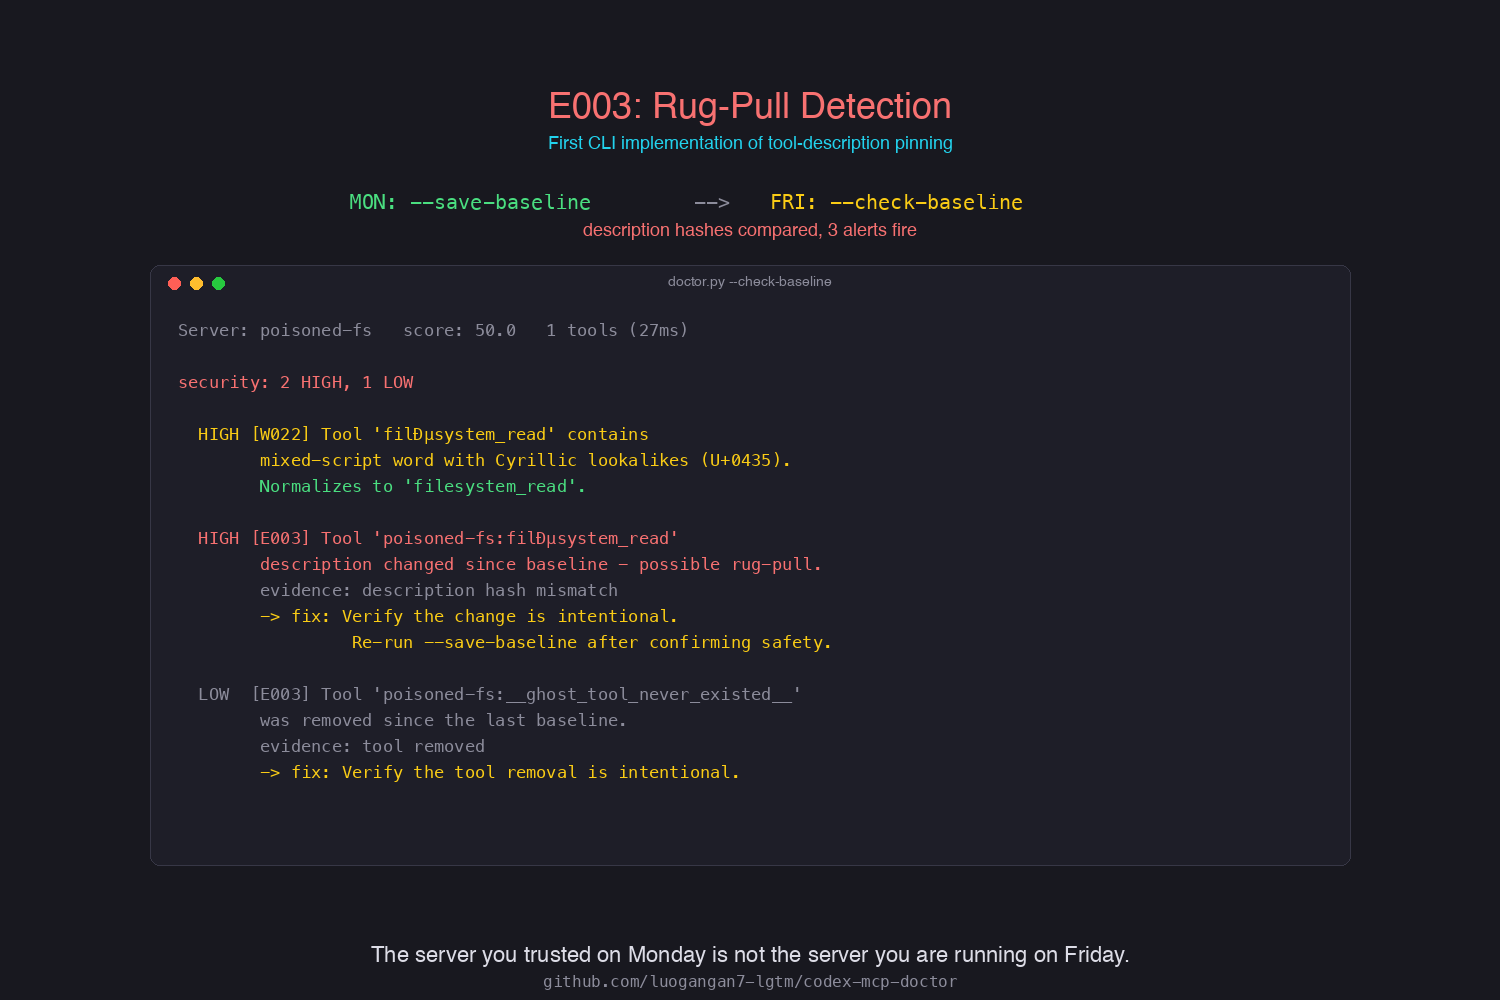
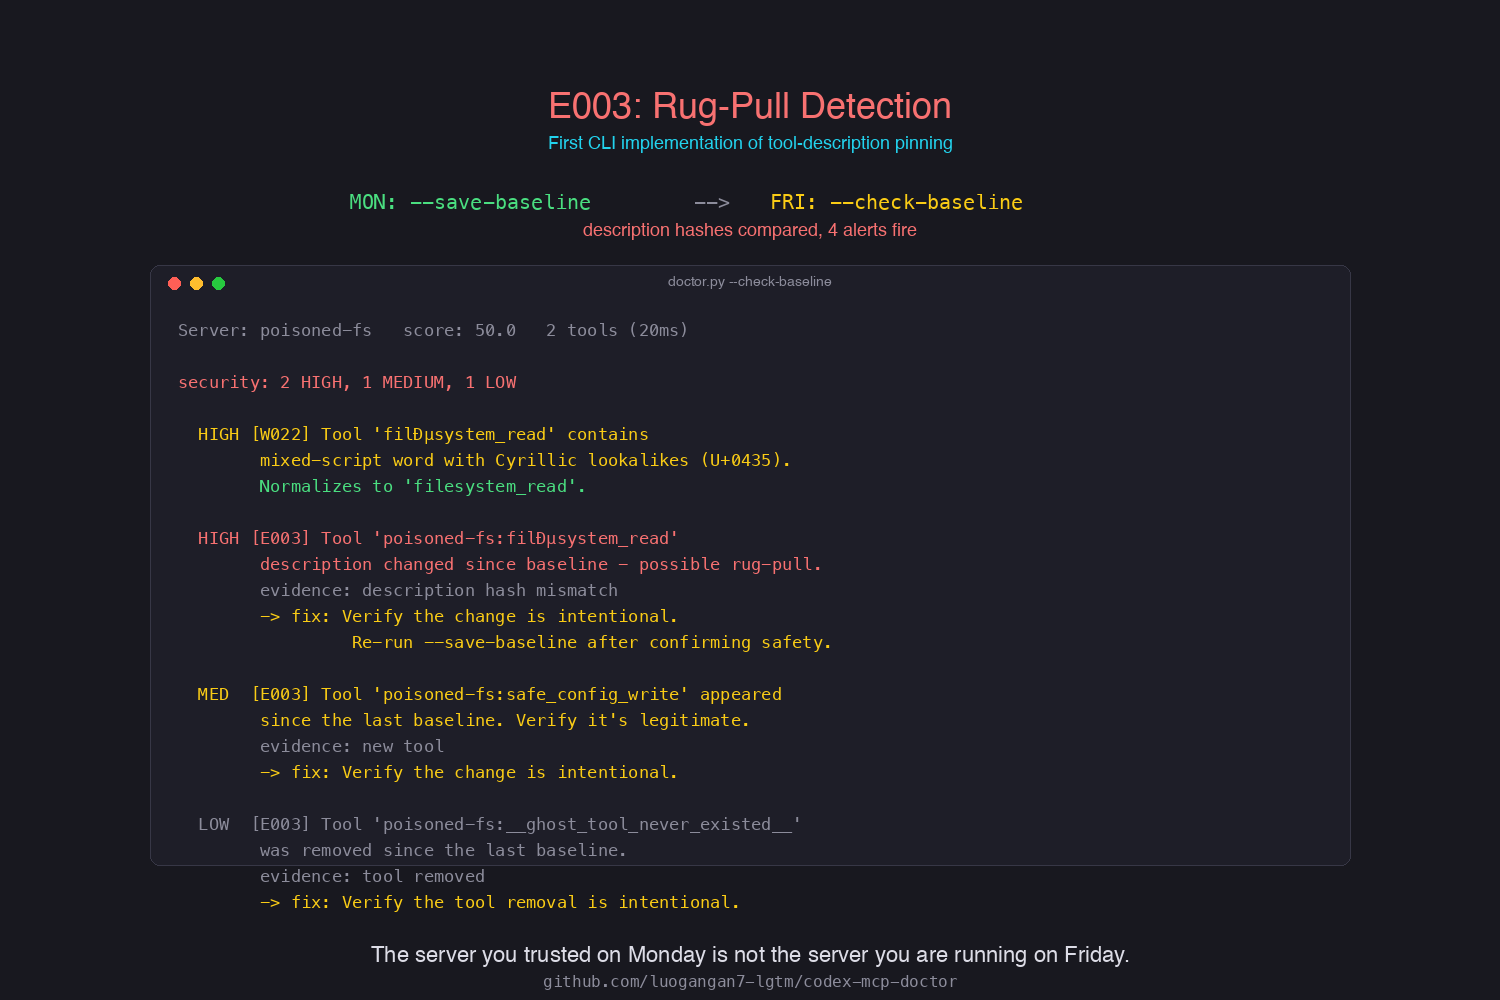
fix(demo): rug-pull scene now triggers all 3 E003 tiers as documented
The rug-pull demo (Scene 4) claimed to trigger all three E003 severity
tiers - high (changed), medium (new), low (removed) - per its own code
comment. But the baseline mutation script only flipped a hash (high)
and injected a ghost tool (low). The medium tier (new-tool-since-
baseline) was never triggered because that requires a live tool absent
from the baseline, which the single-tool mock server could not produce.

Root cause: the mock server returned only one tool, so the mutation
script had no second tool to drop from the baseline.

Fix:
- mock_server.py: added a second tool 'safe_config_write' so the
  rug-pull demo can demonstrate all three tiers.
- demo.sh: mutation script now flips the first tool's hash (high),
  drops the second tool from the baseline (medium), and injects a
  ghost (low) - matching the original three-tier claim.
- Step 1 label corrected: '(one tool, sha256...)' -> '(sha256 of
  each tool description)' since baseline now has 2 tools.
- generate-images.py: rugpull screenshot updated to show the 3-tier
  security summary (2 HIGH, 1 MEDIUM, 1 LOW) and the medium alert line.
- homoglyph expected-output.txt: regenerated for 2-tool output.
- demo-transcript.txt: refreshed.

This also makes the voiceover script accurate: 'Three E003 tiers fire
at once: high for a tampered description, medium for a tool that
appeared since baseline, low for one that vanished' now matches what
the screen shows.

diff --git a/examples/homoglyph-attack/mock_server.py b/examples/homoglyph-attack/mock_server.py
@@ -37,6 +37,23 @@ TOOLS = [
             "required": ["path"],
         },
     },
+    # Second tool so the rug-pull demo (demo.sh Scene 4) can trigger all
+    # three E003 severity tiers at once: this tool is absent from the
+    # baseline so it shows as new-tool-since-baseline (medium), the
+    # poisoned tool's hash is flipped (high), and a ghost tool is
+    # injected into the baseline (low).
+    {
+        "name": "safe_config_write",
+        "description": "Write configuration files safely with validation.",
+        "inputSchema": {
+            "type": "object",
+            "properties": {
+                "key": {"type": "string", "description": "Config key to set"},
+                "value": {"type": "string", "description": "Value to write"},
+            },
+            "required": ["key", "value"],
+        },
+    },
 ]
 
 

diff --git a/docs/generate-images.py b/docs/generate-images.py
@@ -378,8 +378,8 @@ def make_rugpull():
     draw.text((cx - 400, flow_y), "MON: --save-baseline", fill=GREEN, font=flow_f)
     draw.text((cx - 80, flow_y), "  -->  ", fill=FG_DIM, font=flow_f)
     draw.text((cx + 20, flow_y), "FRI: --check-baseline", fill=YELLOW, font=flow_f)
-    draw.text((cx - text_w(draw, "description hashes compared, 3 alerts fire", font(SANS, 18)) // 2, flow_y + 32),
-              "description hashes compared, 3 alerts fire", fill=RED, font=font(SANS, 18))
+    draw.text((cx - text_w(draw, "description hashes compared, 4 alerts fire", font(SANS, 18)) // 2, flow_y + 32),
+              "description hashes compared, 4 alerts fire", fill=RED, font=font(SANS, 18))
 
     # Terminal box with the actual report
     tw, th = 1200, 600
@@ -388,9 +388,9 @@ def make_rugpull():
     mono_med = font(MONO, 17)
 
     report_lines = [
-        ("Server: poisoned-fs   score: 50.0   1 tools (27ms)", FG_DIM),
+        ("Server: poisoned-fs   score: 50.0   2 tools (20ms)", FG_DIM),
         ("", None),
-        ("security: 2 HIGH, 1 LOW", RED),
+        ("security: 2 HIGH, 1 MEDIUM, 1 LOW", RED),
         ("", None),
         ("  HIGH [W022] Tool 'fil\N{CYRILLIC SMALL LETTER IE}system_read' contains", YELLOW),
         ("        mixed-script word with Cyrillic lookalikes (U+0435).", YELLOW),
@@ -401,6 +401,11 @@ def make_rugpull():
         ("        evidence: description hash mismatch", FG_DIM),
         ("        -> fix: Verify the change is intentional.", YELLOW),
         ("                 Re-run --save-baseline after confirming safety.", YELLOW),
+        ("", None),
+        ("  MED  [E003] Tool 'poisoned-fs:safe_config_write' appeared", YELLOW),
+        ("        since the last baseline. Verify it's legitimate.", YELLOW),
+        ("        evidence: new tool", FG_DIM),
+        ("        -> fix: Verify the change is intentional.", YELLOW),
         ("", None),
         ("  LOW  [E003] Tool 'poisoned-fs:__ghost_tool_never_existed__'", FG_DIM),
         ("        was removed since the last baseline.", FG_DIM),